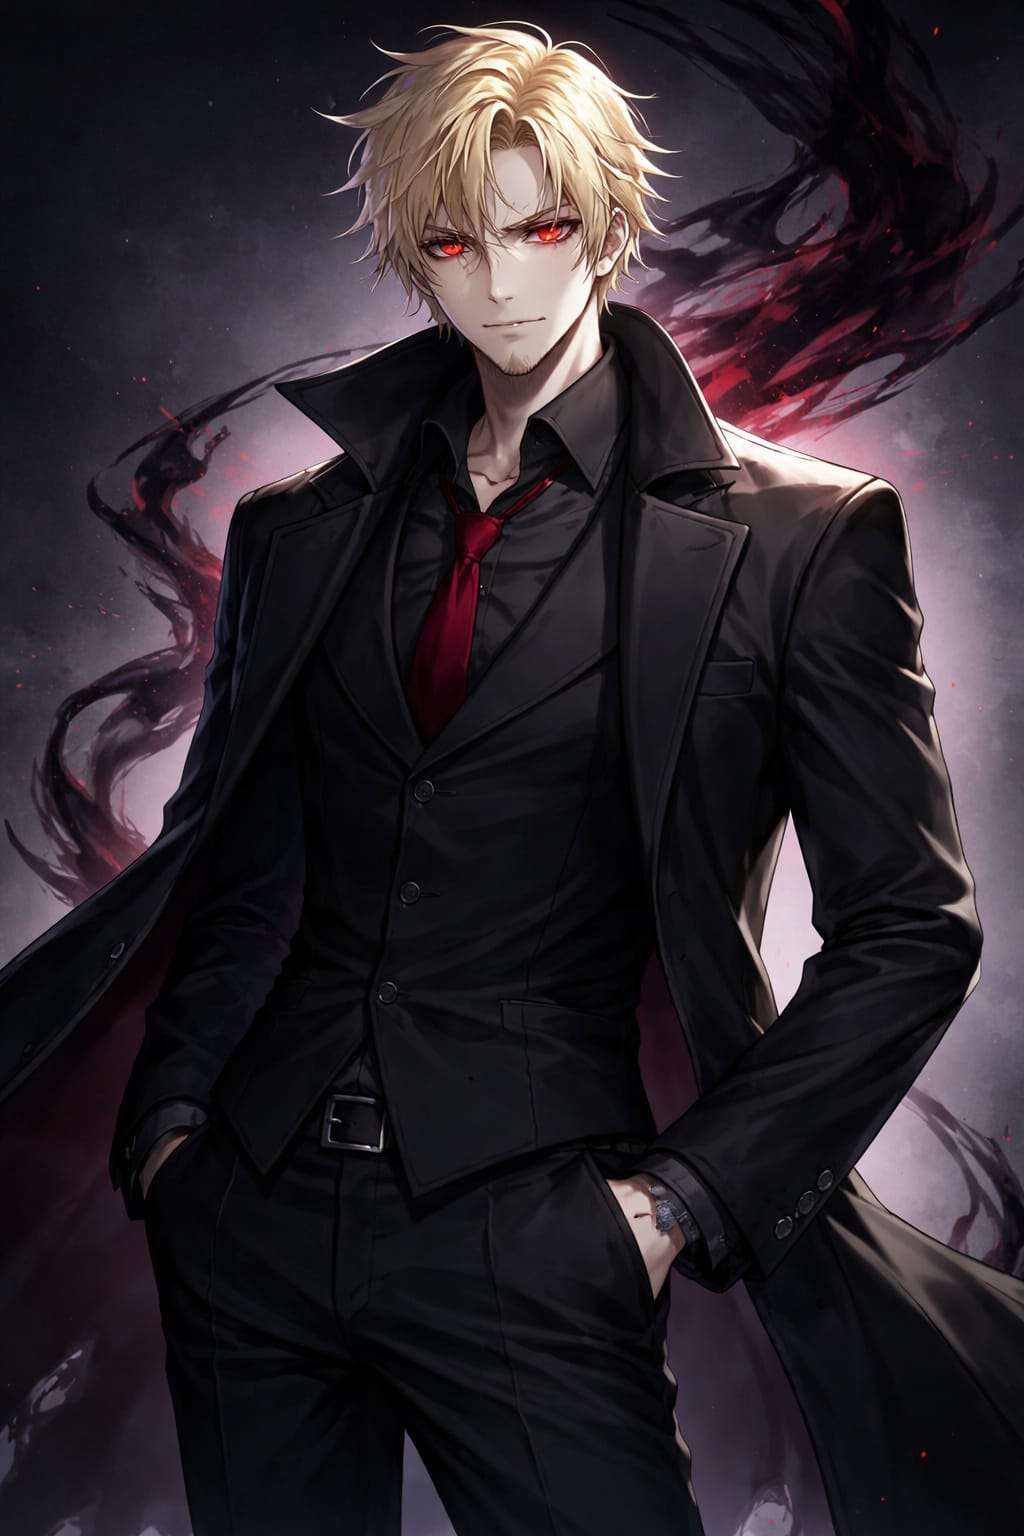
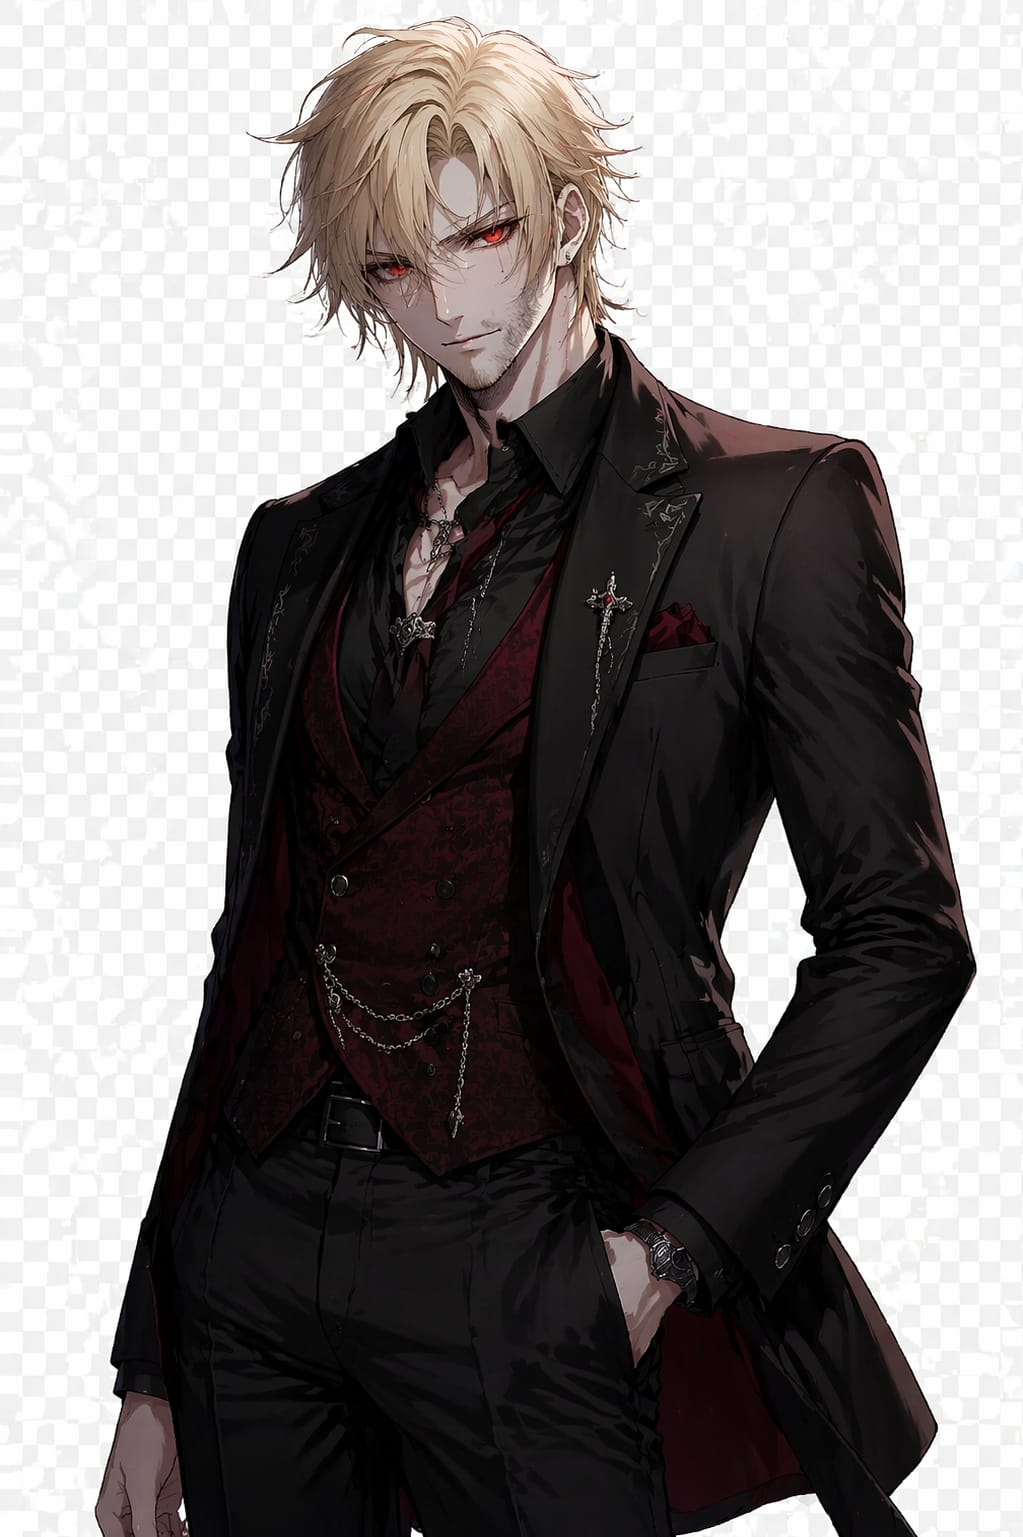
Se divirtam

diff --git a/src/scripts/main.js b/src/scripts/main.js
@@ -3017,6 +3017,7 @@ function parseSkill(text, sourcePath = "", charFolder = "", characterName = "") 
         "(combat_start)": `<color ="#d7d713"><b>[Ínicio do Combate]</b></color>`,
 
         "(on_hit)": `<color ="#FFFF00">[Em um Acerto]</color>`,
+        "(on_hit_without_cracking)": `<color ="#FFFF00">[Em um Acerto Sem a Moeda Quebrar]</color>`,
         "(on_clash_win)": `<color ="#FFFF00">[Ao Ganhar o Clash]</color>`,
         "(on_clash_lose)": `<color ="#ff1d1d">[Ao Perder o Clash]</color>`,
         "(on_nohit)": `<color ="#d42727">[Ao Errar]</color>`,
@@ -3024,6 +3025,7 @@ function parseSkill(text, sourcePath = "", charFolder = "", characterName = "") 
         "(on_crit10)": `<color ="#14d758">[Em um Crítico Natural]</color>`,
         "(turn_end)": `<color ="#8f7fb4"><b>[Fim do Turno]</b></color>`,
         "(skill_end)": `<color ="#d2be05"><b>[Fim da Skill]</b></color>`,
+        "(attack_end)": `<color ="#fffb08"><b>[Fim do Ataque]</b></color>`,
 
         "(hability)": `<color ="#ffffff"><b>[Habilidade]</b></color>`
     };
@@ -3351,8 +3353,8 @@ function parseSkill(text, sourcePath = "", charFolder = "", characterName = "") 
         const costText = (skill._isWeapon || skill._isEgo)
             ? String(skill.flavor || "").trim()
             : (skill._defenseLabel || `Skill ${skill.c_mp || skill.mp}`);
-        const weaponHitText = skill._isWeapon ? String(skill.hit || "").trim() : "";
-        const weaponDmgText = skill._isWeapon ? String(skill.dmg || "").trim() : "";
+        const weaponHitText = (skill._isWeapon || skill._isEgo) ? String(skill.hit || "").trim() : "";
+        const weaponDmgText = (skill._isWeapon || skill._isEgo) ? String(skill.dmg || "").trim() : "";
         const egoRiskPath = skill._isEgo ? resolveEgoRiskIconPath(skill.level) : "";
         const egoCostHtml = skill._isEgo && Array.isArray(skill.cost) && skill.cost.length
             ? `
@@ -3407,7 +3409,7 @@ function parseSkill(text, sourcePath = "", charFolder = "", characterName = "") 
 
                      ${skill._isDefense && !showDefenseDmgType ? "" : `
                      <img class="slot-dmgtype"
-                         src="${showDefenseDmgType ? dmgMap[normalizedDefenseDmgType] : (skill._defenseIcon || dmgMap[skill._isWeapon ? skill.dmg_type : skill.dmg])}"
+                         src="${showDefenseDmgType ? dmgMap[normalizedDefenseDmgType] : (skill._defenseIcon || dmgMap[(skill._isWeapon || skill._isEgo) ? skill.dmg_type : skill.dmg])}"
                          width="56">
                      `}
 
@@ -3436,7 +3438,7 @@ function parseSkill(text, sourcePath = "", charFolder = "", characterName = "") 
 
                  ${skill._isDefense && !showDefenseDmgType ? "" : `
                  <img class="slot-dmgtype"
-                     src="${showDefenseDmgType ? dmgMap[normalizedDefenseDmgType] : dmgMap[skill._isWeapon ? skill.dmg_type : skill.dmg]}"
+                     src="${showDefenseDmgType ? dmgMap[normalizedDefenseDmgType] : dmgMap[(skill._isWeapon || skill._isEgo) ? skill.dmg_type : skill.dmg]}"
                      width="56">
                  `}
 
@@ -3655,7 +3657,8 @@ function parseSkill(text, sourcePath = "", charFolder = "", characterName = "") 
                 flavor: "",
                 hit: "",
                 sin: "sinless",
-                dmg: "slash",
+                dmg: "",
+                dmg_type: "slash",
                 mp: "3",
                 level: "",
                 c_mp: "",
@@ -3966,7 +3969,8 @@ function parseSkill(text, sourcePath = "", charFolder = "", characterName = "") 
                 flavor: "",
                 hit: "",
                 sin: "sinless",
-                dmg: "slash",
+                dmg: "",
+                dmg_type: "slash",
                 mp: "3",
                 level: "",
                 c_mp: "",
@@ -4089,6 +4093,14 @@ function parseSkill(text, sourcePath = "", charFolder = "", characterName = "") 
                 line.replace("dmg:", "")
                     .replace(";", "")
                     .trim();
+        }
+
+        if (line.startsWith("dmg_type:") && currentEgo) {
+            currentEgo.dmg_type =
+                line.replace("dmg_type:", "")
+                    .replace(";", "")
+                    .trim()
+                    .toLowerCase();
         }
 
         if (line.startsWith("dmg_type:") && currentDefense) {

diff --git a/bd/system/effects.md b/bd/system/effects.md
@@ -49,7 +49,9 @@
 <div class="effects_column" title="Outros">
 
 @Sin
+@{E.G.O_Passive}
 @Bloodfeast
+@Bloodfeast_Consumed
 
 </div>
 </div>
@@ -70,8 +72,11 @@
 @Commander
 @Bristle
 @Butterfly
+@Bristle_Shard
+@Bristle_Deluge
 @The_Living_&_The_Departed
 @Reload_(Solemn_Lament)
+
 
 </div>
 </div>
@@ -94,6 +99,7 @@
 @Hardblood
 @Hardblood_Armor
 @Prey
+@Blood_Rain
 @Returning_Bloodlust
 
 </div>

diff --git a/bd/perks.md b/bd/perks.md
@@ -25,7 +25,7 @@ Uma vez por combate ao falhar em uma rolagem você pode refazer essa rolagem, po
 ---
 
 ### Descarga Cinética
-Aumente o dano te todos os seus ataques em +10 para cada 5 feet movimentado no turno.
+Aumente o dano de um de seus ataques em +10 para cada 5 feet movimentado no turno.
 
 ---
 